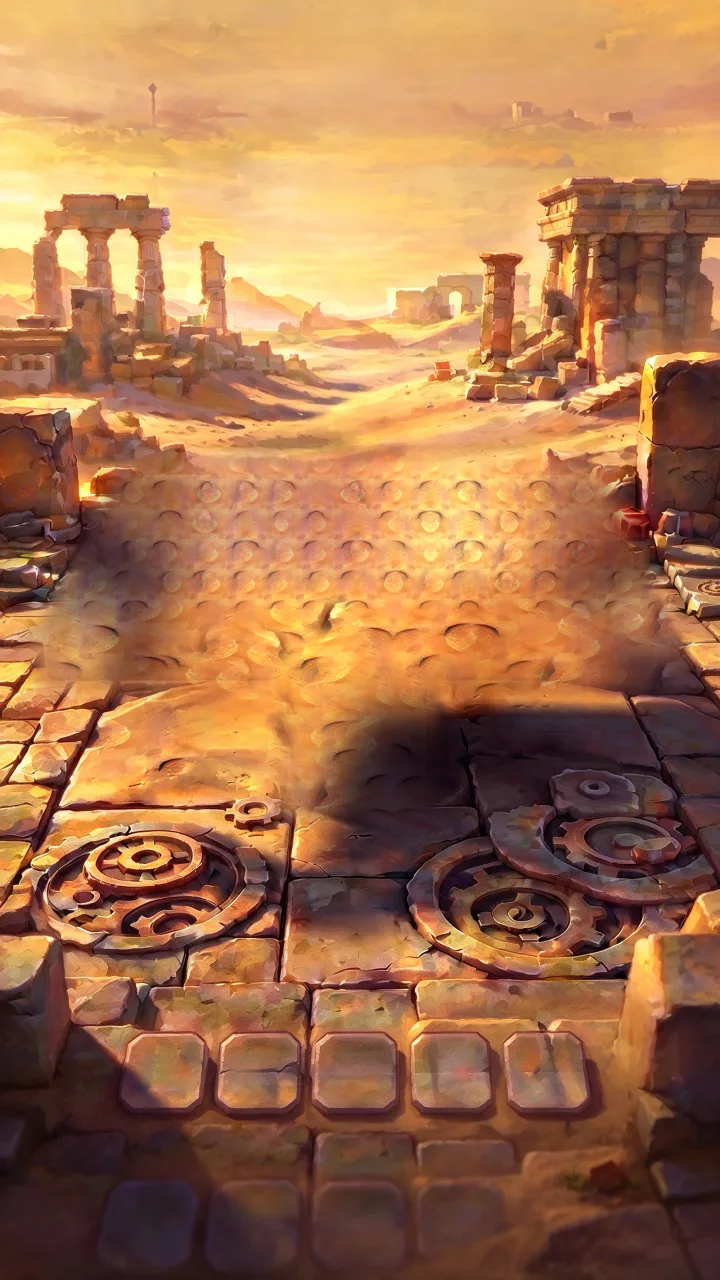
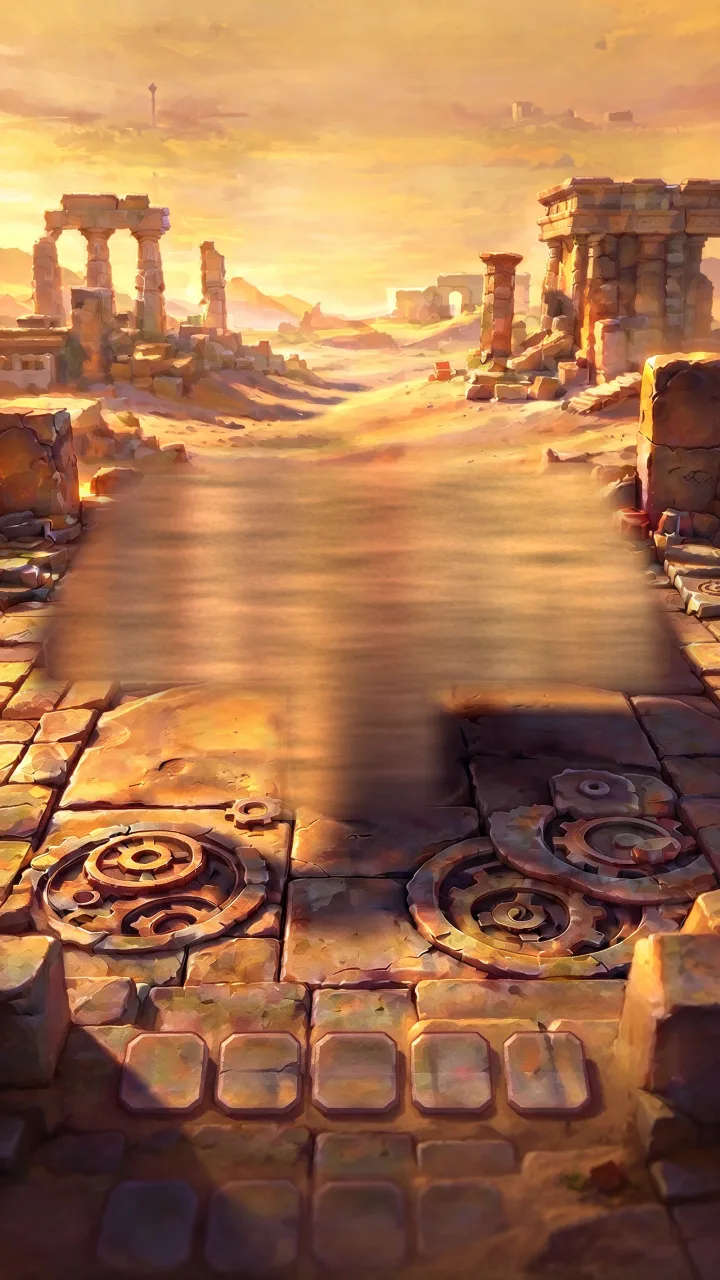
Beta Yapi v5.3: top kuculdu ve hizlandi, kupe carpinca cevresini deviren vurus dalgasi; Pofi ortada; acik tas direk; masa bolgesi kum dolgusu; onbellek v123
Claude-Session: https://claude.ai/code/session_017YyKZuXSwqEETF9LpRu1xc

Changed region(s): [[0.0306, 0.3438, 0.9778, 0.6562]]

diff --git a/beta/yapi/oyun.js b/beta/yapi/oyun.js
@@ -19,7 +19,8 @@ const R0 = 6.1;          // platform modelinin yaricapi
 let R = R0, TOPY = 6;              // bu bolumdeki yaricap: yapinin hemen disi, itilen kup kenardan dussun
 const GY = -4.0;         // zemin: platform kisa bir direk ustunde durur, dusen kupler direk dibindeki zeminde yuvarlanir
 const PT = 1.1;          // platform tablasinin kalinligi (ust yuzey y=0)
-const POFI = new THREE.Vector3(2.3, GY, 9.6);     // Pofi kaidesiz, cimende durur; direkli platforma yukari atar   // Pofi'nin ayak yeri (z bolume gore platformun onune konur)
+const POFI = new THREE.Vector3(0, GY, 9.6);   // v5.3: Pofi ortada (Adem: kenarda durmasin)
+//     // Pofi kaidesiz, cimende durur; direkli platforma yukari atar   // Pofi'nin ayak yeri (z bolume gore platformun onune konur)
 const GONE_Y = -0.45;    // bunun altina inen kup platformdan dusmus sayilir
 
 // ---------------- cizim ----------------
@@ -76,12 +77,12 @@ const PL = {};
 // dokular resmin kendisinden kesildi (doku/plat/harabe_*). Tabla stage icinde (bolume gore buyur), direk disarida.
 const HQ = {};
 {
-  const ld = (n, rx, ry) => { const x = PTL.load('doku/plat/harabe_' + n + '.webp?v=2'); x.colorSpace = THREE.SRGBColorSpace; x.anisotropy = 8; if (rx) { x.wrapS = x.wrapT = THREE.RepeatWrapping; x.repeat.set(rx, ry || 1); } return x; };
+  const ld = (n, rx, ry) => { const x = PTL.load('doku/plat/harabe_' + n + '.webp?v=3'); x.colorSpace = THREE.SRGBColorSpace; x.anisotropy = 8; if (rx) { x.wrapS = x.wrapT = THREE.RepeatWrapping; x.repeat.set(rx, ry || 1); } return x; };
   // resimdeki gibi acik renkli boyali tas: dokunun kendisi biraz isik da verir, golgede kahverengiye bogulmaz
   const mk = (tx, c, e, r) => new THREE.MeshStandardMaterial({ map: tx, color: c, emissive: '#ffffff', emissiveMap: tx, emissiveIntensity: e, roughness: r });
   const top = mk(ld('ust'), '#ffffff', 0.12, 0.82);
   const yan = mk(ld('yan'), '#ffe6d2', 0.45, 0.85);
-  const dir = mk(ld('direk', 1, 1), '#ffe2cc', 0.4, 0.9);
+  const dir = mk(ld('direk', 1, 1), '#fff2e6', 0.35, 0.9);
   const alt = new THREE.MeshStandardMaterial({ color: '#8a6a5a', roughness: 0.95 });
   HQ.slab = new THREE.Mesh(new THREE.BoxGeometry(2 * R0, PT, 2 * R0), [yan, yan, top, alt, yan, yan]); HQ.slab.position.y = -PT / 2;
   HQ.slab.castShadow = HQ.slab.receiveShadow = true; stage.add(HQ.slab);
@@ -415,12 +416,12 @@ const CUBESHAPE = new CANNON.Box(new CANNON.Vec3(S / 2, S / 2, S / 2)), FICISHAP
 
 // ---------------- oyun durumu ----------------
 let LV = 1, g = null;
-const cubes = [], balls = [];
+const cubes = [], balls = [], CUBE_OF = new Map();
 function clearLevel() {
   for (const c of cubes) { world.removeBody(c.body); scene.remove(c.mesh); }
   for (const b of balls) { world.removeBody(b.body); scene.remove(b.mesh); }
   for (const d of DEB) scene.remove(d.m); for (const s of SPL) scene.remove(s.m);
-  cubes.length = 0; balls.length = 0; DEB.length = 0; SPL.length = 0;
+  CUBE_OF.clear(); cubes.length = 0; balls.length = 0; DEB.length = 0; SPL.length = 0;
 }
 function buildLevel() {
   clearLevel();
@@ -450,7 +451,7 @@ function buildLevel() {
       if (!g || !g.armed || c.out || c.fuse != null || (c.gone && !kd.esya)) return;   // dusen kavanoz yerde de kirilir
       if (Math.abs(e.contact.getImpactVelocityAlongNormal()) > (kd.kir || 3.2)) { c.fuse = 0; FUSE.push(c); }
     });
-    cubes.push(c);
+    cubes.push(c); CUBE_OF.set(body, c);
   }
   syncMeshes();
   g = { L: LV, ad: Y.ad, total: cubes.length, left: cubes.length, shots: Y.top, max: Y.top, state: 'play', t: 0, busy: 0, quiet: 0, combo: null, armed: false, bonus: 0, gold: 0 };
@@ -540,8 +541,9 @@ function updatePofi(dt) {
 }
 
 // ---------------- toplar ----------------
-const BALLGEO = new THREE.SphereGeometry(0.42, 32, 20);
-const TRAILGEO = new THREE.SphereGeometry(0.24, 12, 8);
+const BR = 0.27;   // v5.3: top kucultuldu (0.42 cok iriydi)
+const BALLGEO = new THREE.SphereGeometry(BR, 32, 20);
+const TRAILGEO = new THREE.SphereGeometry(0.16, 12, 8);
 function shoot(target) {
   if (!g || g.state !== 'play' || g.shots <= 0) return false;
   const now = g.t; if (g.lastShot && now - g.lastShot < 0.32) return false;
@@ -552,15 +554,16 @@ function shoot(target) {
   // yay: v = (hedef - baslangic)/T - g*T/2. En kisa ucus suresi secilir ama top platformun on kenarini (z = R) en az
   // 0.9 yukaridan asmali, yoksa kenara carpip geri seker
   const dv = target.clone().sub(st), gy = world.gravity.y, edge = Math.min(1, Math.max(0, (st.z - R) / Math.max(0.01, st.z - target.z)));
-  let T = Math.max(0.24, Math.min(0.5, dv.length() / 44));
+  let T = Math.max(0.2, Math.min(0.4, dv.length() / 62));   // v5.3: daha hizli, daha duz atis
   for (; T < 2.2; T += 0.03) { const te = edge * T, vy = dv.y / T - 0.5 * gy * T; if (st.y + vy * te + 0.5 * gy * te * te > 0.9) break; }
   const v = new CANNON.Vec3(dv.x / T, dv.y / T - 0.5 * gy * T, dv.z / T);
   const col = PF.col || '#3d9bff';
-  const body = new CANNON.Body({ mass: 38, material: PM.ball, linearDamping: 0.01, allowSleep: false }); body.addShape(new CANNON.Sphere(0.42));
+  const body = new CANNON.Body({ mass: 38, material: PM.ball, linearDamping: 0.01, allowSleep: false }); body.addShape(new CANNON.Sphere(BR));
   body.position.set(st.x, st.y, st.z); body.velocity.copy(v); world.addBody(body);
   const mesh = new THREE.Mesh(BALLGEO, new THREE.MeshStandardMaterial({ color: col, roughness: 0.15, metalness: 0.1, emissive: col, emissiveIntensity: 0.45 })); mesh.castShadow = true; scene.add(mesh);
-  const b = { body, mesh, t: 0, hit: false, trail: [], col };
-  body.addEventListener('collide', (e) => { if (b.hit) return; b.hit = true; impact(b, e); });
+  const b = { body, mesh, t: 0, hit: false, trail: [], col, dir: new THREE.Vector3(v.x, v.y, v.z).normalize() };
+  // ilk kupe carpista vurus dalgasi: carpisma adimin icinde gelir, itis adimdan sonra yapilir (b.blast)
+  body.addEventListener('collide', (e) => { if (b.hit) return; const c = CUBE_OF.get(e.body); if (!c) return; b.hit = true; b.blast = new THREE.Vector3().copy(body.position); impact(b, e); });
   balls.push(b);
   g.combo = { n: 0, t: 0, shown: 0 };
   burst(st, col, 8, 4); sfx('shoot'); hud();
@@ -571,9 +574,27 @@ function impact(b) {
   wakeAll(); g.busy = 2.5; shake = Math.min(0.5, shake + 0.32);
   burst(new THREE.Vector3().copy(b.body.position), '#fff3a0', 18, 9); sfx('hit');
 }
+// v5.3: atis guclendi. Top kupe degdigi an cevresindeki kupler (yaklasik 1.6 kup yaricap) top yonunde itilir;
+// itis kupun merkezinin ustunden uygulandigi icin kup sadece kaymaz, devrilir. Agir malzeme (celik, tugla) daha az etkilenir.
+const BLAST = { r: S * 1.6, hiz: 11, yukari: 2.2 };
+const IMP = new CANNON.Vec3(), RP = new CANNON.Vec3();
+function blast(b) {
+  const p = b.blast, d = b.dir.clone(); d.y = Math.max(-0.2, Math.min(0.25, d.y)); d.normalize();
+  for (const c of cubes) {
+    if (c.gone || c.out) continue;
+    const q = c.body.position, dx = q.x - p.x, dy = q.y - p.y, dz = q.z - p.z, dist = Math.hypot(dx, dy, dz);
+    if (dist > BLAST.r) continue;
+    const k = 1 - dist / BLAST.r, m = c.body.mass, sp = BLAST.hiz * (0.35 + 0.65 * k) / Math.max(1, m * 0.55);
+    // top yonu + biraz merkezden disari + hafif yukari
+    const rx = dist > 0.01 ? dx / dist : 0, rz = dist > 0.01 ? dz / dist : 0;
+    IMP.set((d.x * 0.8 + rx * 0.3) * sp * m, (d.y * 0.5 + 0.12) * sp * m + BLAST.yukari * k * m, (d.z * 0.8 + rz * 0.3) * sp * m);
+    RP.set(0, S * 0.32, 0);   // merkezin ustu: devirme torku
+    c.body.wakeUp(); c.body.applyImpulse(IMP, RP);
+  }
+}
 function updateBalls(dt) {
   for (let i = balls.length - 1; i >= 0; i--) {
-    const b = balls[i]; b.t += dt; b.mesh.position.copy(b.body.position); b.mesh.quaternion.copy(b.body.quaternion);
+    const b = balls[i]; b.t += dt; if (b.blast) { blast(b); b.blast = null; } b.mesh.position.copy(b.body.position); b.mesh.quaternion.copy(b.body.quaternion);
     // iz: arkasinda kuculen parlak toplar
     if (b.t < 1.5) { const tr = new THREE.Mesh(TRAILGEO, new THREE.MeshBasicMaterial({ color: b.col, transparent: true, opacity: 0.55, depthWrite: false })); tr.position.copy(b.mesh.position); scene.add(tr); b.trail.push({ m: tr, life: 0.28 }); }
     for (let j = b.trail.length - 1; j >= 0; j--) { const p = b.trail[j]; p.life -= dt; const k = Math.max(0, p.life / 0.28); p.m.scale.setScalar(k); p.m.material.opacity = 0.55 * k; if (p.life <= 0) { scene.remove(p.m); p.m.material.dispose(); b.trail.splice(j, 1); } }

diff --git a/beta/sw.js b/beta/sw.js
@@ -3,7 +3,7 @@
 // - Internet yokken: saklanan kopya kullanilir, oyun cevrimdisi acilir.
 // - Gorseller, 3D modeller, videolar: once saklanan kopya, arka planda guncellenir.
 // - Oyuncu kaydina (localStorage / IndexedDB) asla dokunmaz.
-const C='blokpop-beta-v122';
+const C='blokpop-beta-v123';
 // @@ASSETS-START (tools/gen-sw-manifest.js ile otomatik uretilir, elle duzenleme)
 const CORE=["./","./index.html","./manifest.webmanifest","./icon-192.png","./icon-512.png","./icon-maskable-512.png","./runpofi.js","./items3d.js","./sfx.js","./avatars.js","./live3d.js","./three.module.min.js","./GLTFLoader.js","./SkeletonUtils.js","./BufferGeometryUtils.js"];
 const EXTRA=["./LICENSES.txt","./bg/w01.webp","./bg/w02.webp","./bg/w03.webp","./bg/w04.webp","./bg/w05.webp","./bg/w06.webp","./bg/w07.webp","./bg/w08.webp","./bg/w09.webp","./bg/w10.webp","./bg/w11.webp","./bg/w12.webp","./bg/w13.webp","./bg/w14.webp","./bg/w15.webp","./bg/w16.webp","./bg/w17.webp","./bg/w18.webp","./bg/w19.webp","./bg/w20.webp","./buz/index.html","./buz/izgara.js","./buz/motor.js","./buz/oyun3d.js","./buz/resim/liste.json","./buz/resim/r001.webp","./buz/resim/r002.webp","./buz/resim/r003.webp","./buz/resim/r004.webp","./buz/resim/r005.webp","./buz/resim/r006.webp","./buz/resim/r007.webp","./buz/resim/r008.webp","./buz/resim/r009.webp","./buz/resim/r010.webp","./buz/resim/r011.webp","./buz/resim/r012.webp","./buz/resim/r013.webp","./buz/resim/r014.webp","./buz/resim/r015.webp","./buz/resim/r016.webp","./buz/resim/r017.webp","./buz/resim/r018.webp","./buz/resim/r019.webp","./buz/resim/r020.webp","./buz/resim/r021.webp","./buz/resim/r022.webp","./buz/resim/r023.webp","./buz/resim/r024.webp","./buz/resim/r025.webp","./buz/resim/r026.webp","./buz/resim/r027.webp","./buz/resim/r028.webp","./buz/resim/r029.webp","./buz/resim/r030.webp","./buz/resim/r031.webp","./buz/resim/r032.webp","./buz/resim/r033.webp","./buz/resim/r034.webp","./buz/resim/r035.webp","./buz/resim/r036.webp","./buz/resim/r037.webp","./buz/resim/r038.webp","./buz/resim/r039.webp","./buz/resim/r040.webp","./buz/resim/r041.webp","./buz/resim/r042.webp","./buz/resim/r043.webp","./buz/resim/r044.webp","./buz/resim/r045.webp","./buz/resim/r046.webp","./buz/resim/r047.webp","./buz/resim/r048.webp","./buz/resim/r049.webp","./buz/resim/r050.webp","./buz/resim/r051.webp","./buz/resim/r052.webp","./buz/resim/r053.webp","./buz/resim/r054.webp","./buz/resim/r055.webp","./buz/resim/r056.webp","./buz/resim/r057.webp","./buz/resim/r058.webp","./buz/resim/r059.webp","./buz/resim/r060.webp","./buz/resim/r061.webp","./buz/resim/r062.webp","./buz/resim/r063.webp","./buz/resim/r064.webp","./buz/resim/r065.webp","./buz/resim/r066.webp","./buz/resim/r067.webp","./buz/resim/r068.webp","./buz/resim/r069.webp","./buz/resim/r070.webp","./buz/resim/r071.webp","./buz/resim/r072.webp","./buz/resim/r073.webp","./buz/resim/r074.webp","./buz/resim/r075.webp","./buz/resim/r076.webp","./buz/resim/r077.webp","./buz/resim/r078.webp","./buz/resim/r079.webp","./buz/resim/r080.webp","./buz/resim/r081.webp","./buz/resim/r082.webp","./buz/resim/r083.webp","./buz/resim/r084.webp","./buz/resim/r085.webp","./buz/resim/r086.webp","./buz/resim/r087.webp","./buz/resim/r088.webp","./buz/resim/r089.webp","./buz/resim/r090.webp","./buz/resim/r091.webp","./buz/resim/r092.webp","./buz/resim/r093.webp","./buz/resim/r094.webp","./buz/resim/r095.webp","./buz/resim/r096.webp","./buz/resim/r097.webp","./buz/resim/r098.webp","./buz/resim/r099.webp","./buz/resim/r100.webp","./buz/resim/r101.webp","./buz/resim/r102.webp","./buz/resim/r103.webp","./buz/resim/r104.webp","./buz/resim/r105.webp","./buz/resim/r106.webp","./buz/resim/r107.webp","./cannon.min.js","./char_astronot.js","./char_ejderha.js","./char_super.js","./evo.jpg","./evo.mp4","./kamyon/index.html","./kamyon/kamyon.glb","./kamyon/motor.js","./kamyon/oyun.js","./live_astronot.glb","./live_ejderha.glb","./live_pofi.glb","./live_super.glb","./pofi_dance.webm","./pofi_dance_a.webm","./pofi_knock.webm","./pofi_knock_a.webm","./pofi_spray.webm","./pofi_spray_a.webm","./splash.mp4","./splash_a.webm","./yapi/doku/altin.webp","./yapi/doku/bomba.webp","./yapi/doku/buz.webp","./yapi/doku/cam.webp","./yapi/doku/celik.webp","./yapi/doku/fici_kapak.webp","./yapi/doku/fici_yan.webp","./yapi/doku/hediye.webp","./yapi/doku/jole.webp","./yapi/doku/plat/ahsap_ust.webp","./yapi/doku/plat/ahsap_yan.webp","./yapi/doku/plat/buz_ust.webp","./yapi/doku/plat/buz_yan.webp","./yapi/doku/plat/harabe_direk.webp","./yapi/doku/plat/harabe_ust.webp","./yapi/doku/plat/harabe_yan.webp","./yapi/doku/plat/mercan_ust.webp","./yapi/doku/plat/mercan_yan.webp","./yapi/doku/plat/neon_ust.webp","./yapi/doku/plat/neon_yan.webp","./yapi/doku/plat/seker_ust.webp","./yapi/doku/plat/seker_yan.webp","./yapi/doku/plat/tas_ust.webp","./yapi/doku/plat/tas_yan.webp","./yapi/doku/recel_etiket.webp","./yapi/doku/sandik.webp","./yapi/doku/tugla.webp","./yapi/doku/yildiz.webp","./yapi/fon/cayir1.webp","./yapi/fon/cayir2.webp","./yapi/fon/cayir3.webp","./yapi/fon/col.webp","./yapi/fon/deniz.webp","./yapi/fon/harabe.webp","./yapi/fon/kar1.webp","./yapi/fon/kar2.webp","./yapi/fon/orman.webp","./yapi/fon/sahil1.webp","./yapi/fon/sahil2.webp","./yapi/fon/seker.webp","./yapi/fon/uzay.webp","./yapi/index.html","./yapi/kup_yuz.webp","./yapi/model/fici.glb","./yapi/model/kup.glb","./yapi/model/platform_ahsap.glb","./yapi/model/platform_tas.glb","./yapi/model/sandik.glb","./yapi/oyun.js"];

diff --git a/beta/yapi/index.html b/beta/yapi/index.html
@@ -60,6 +60,6 @@ html,body{margin:0;height:100%;overflow:hidden;background:#e8a050;font-family:va
 <div id="praise"></div>
 <div class="modal" id="modal"><div class="card" id="card"></div></div>
 <div id="load">Yükleniyor…</div>
-<script type="module" src="oyun.js?v=11"></script>
+<script type="module" src="oyun.js?v=12"></script>
 </body>
 </html>
